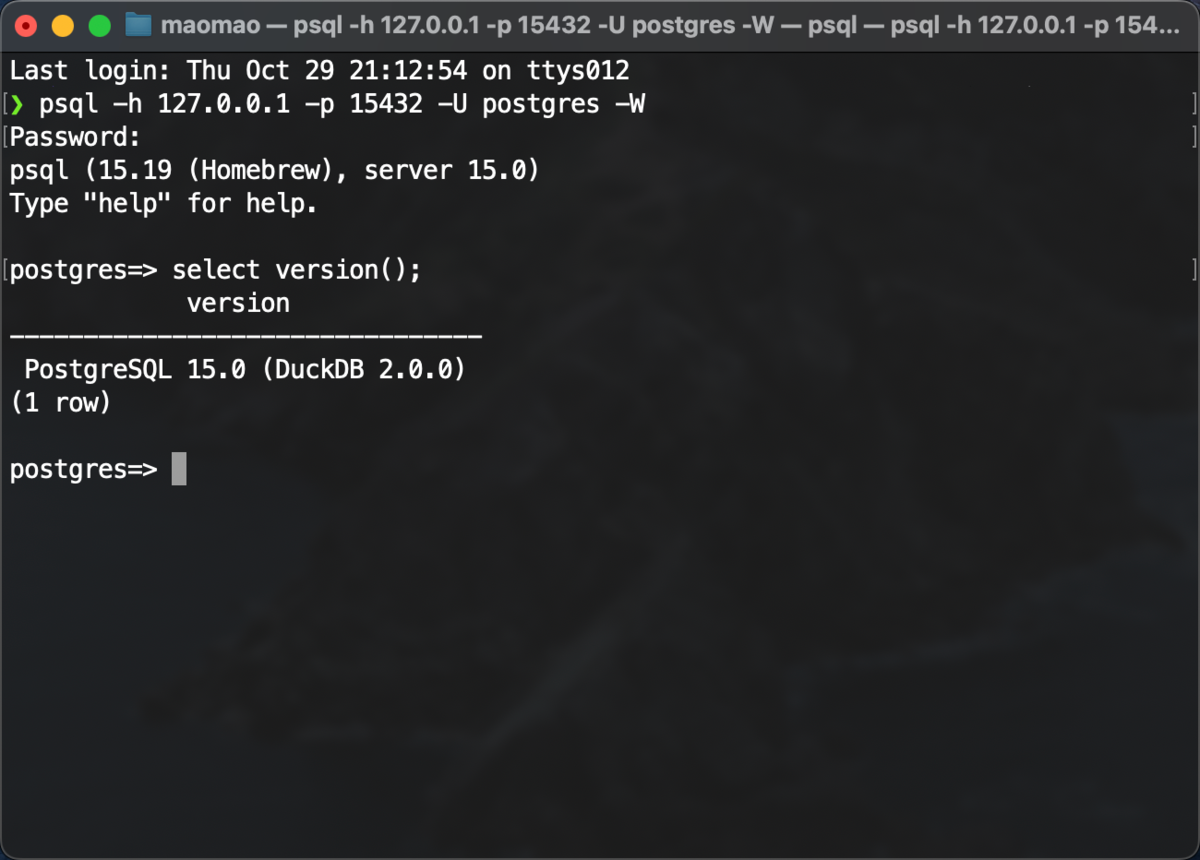
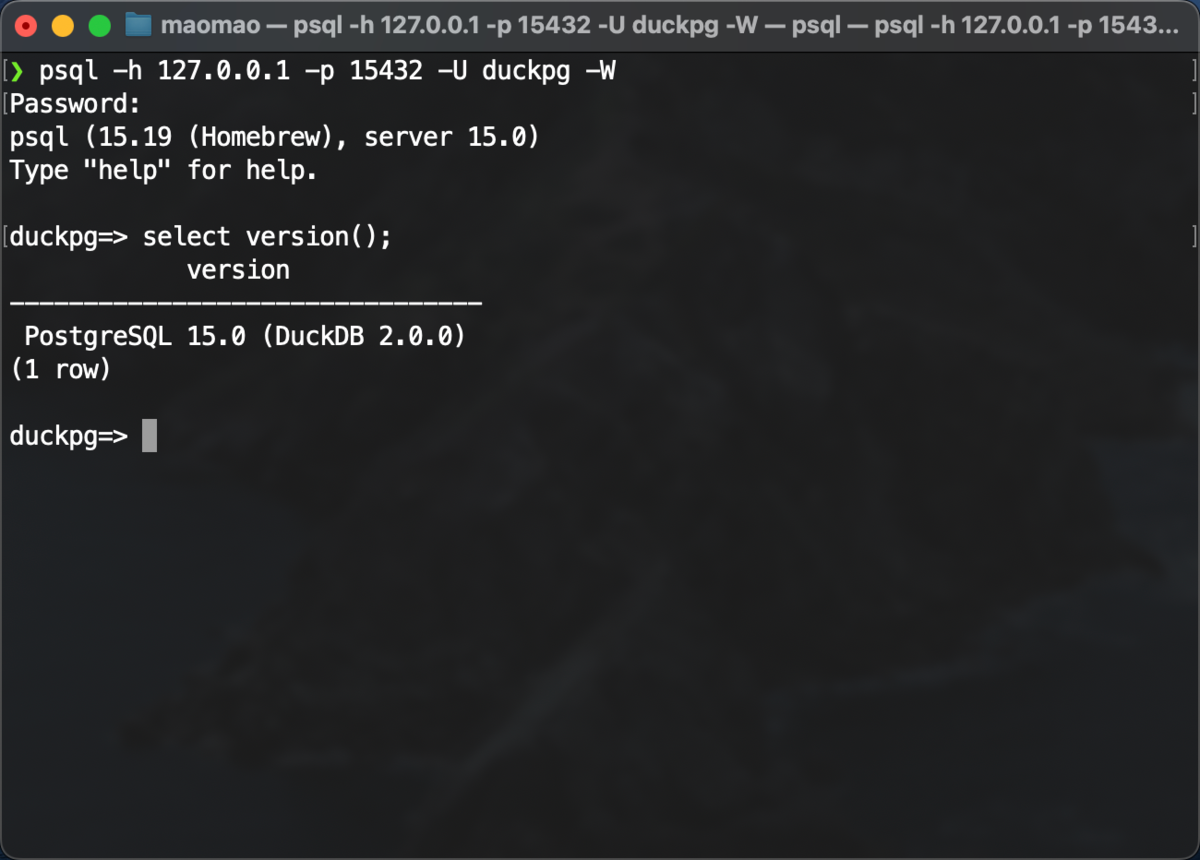
feat: advertise a configurable server version
Config.ServerVersion selects the PostgreSQL server_version parameter. An empty value stays 15.0, and version() appends the linked DuckDB library version.

diff --git a/duckpg/compat.go b/duckpg/compat.go
@@ -3,9 +3,10 @@ package duckpg
 import (
 	"regexp"
 	"strings"
-)
+	"sync"
 
-const pgVersionText = "PostgreSQL 15.0 (DuckDB 2.0.0)"
+	"github.com/duckdb/duckdb-go/v2/mapping"
+)
 
 // compatKind is how a whole client statement is handled before DuckDB sees it.
 type compatKind int
@@ -32,7 +33,7 @@ type compatClass struct {
 // startupSettings are the values advertised at connection startup, plus defaults
 // for PostgreSQL GUCs that DuckDB 2.0 does not implement.
 var startupSettings = map[string]string{
-	"server_version":              "15.0",
+	"server_version":              defaultServerVersion,
 	"server_encoding":             "UTF8",
 	"client_encoding":             "UTF8",
 	"datestyle":                   "ISO, MDY",
@@ -85,7 +86,7 @@ func classifyCompat(query string, s *session) compatClass {
 	if reVersion.MatchString(sql) {
 		return compatClass{
 			kind: compatRewrite,
-			sql:  "SELECT " + sqlStringLiteral(pgVersionText) + " AS version",
+			sql:  "SELECT " + sqlStringLiteral(versionText(s)) + " AS version",
 		}
 	}
 	if class, ok := classifyCurrentSetting(sql, s); ok {
@@ -201,6 +202,32 @@ func classifySetConfig(sql string) (compatClass, bool) {
 		sql:    "SELECT " + sqlStringLiteral(value) + " AS set_config",
 		effect: compatEffect{sets: map[string]string{name: value}},
 	}, true
+}
+
+var (
+	duckdbVersionOnce sync.Once
+	duckdbVersionText string
+)
+
+// duckdbVersion is the linked libduckdb version from mapping.LibraryVersion.
+// An empty library string becomes "unknown".
+func duckdbVersion() string {
+	duckdbVersionOnce.Do(func() {
+		duckdbVersionText = mapping.LibraryVersion()
+		if duckdbVersionText == "" {
+			duckdbVersionText = "unknown"
+		}
+	})
+	return duckdbVersionText
+}
+
+// versionText is the sentence returned by version().
+func versionText(s *session) string {
+	pg, ok := lookupSetting(s, "server_version")
+	if !ok || pg == "" {
+		pg = defaultServerVersion
+	}
+	return "PostgreSQL " + pg + " (DuckDB " + duckdbVersion() + ")"
 }
 
 func lookupSetting(s *session, name string) (string, bool) {

diff --git a/duckpg/server.go b/duckpg/server.go
@@ -6,8 +6,10 @@ import (
 	"database/sql"
 	"fmt"
 	"log"
+	"maps"
 	"net"
 	"os"
+	"strings"
 
 	_ "github.com/duckdb/duckdb-go/v2"
 	"github.com/jackc/pgx/v5/pgproto3"
@@ -16,14 +18,29 @@ import (
 var infoLog = log.New(os.Stdout, "[go-duckpg] ", log.Ldate|log.Ltime)
 var errorLog = log.New(os.Stderr, "[go-duckpg] ", log.Lshortfile)
 
+// defaultServerVersion is the PostgreSQL server_version used when Config.ServerVersion is empty.
+const defaultServerVersion = "15.0"
+
 // Config controls optional startup behavior.
 // A nil Users accepts every client. A non-nil Users requires the startup
 // user to be a key and the cleartext password to match that entry.
 // A nil TLS refuses SSLRequest with 'N'; a non-nil TLS completes the
 // handshake after SSLRequest.
+// An empty ServerVersion advertises PostgreSQL 15.0. version() appends the
+// linked DuckDB library version.
 type Config struct {
-	Users map[string]string
-	TLS   *tls.Config
+	Users         map[string]string
+	TLS           *tls.Config
+	ServerVersion string
+}
+
+// serverVersion is the PostgreSQL server_version for this configuration.
+// Whitespace-only values use the default.
+func (cfg Config) serverVersion() string {
+	if v := strings.TrimSpace(cfg.ServerVersion); v != "" {
+		return v
+	}
+	return defaultServerVersion
 }
 
 // Listen initializes the PostgreSQL wire server and listens for incoming connections.
@@ -32,9 +49,7 @@ type Config struct {
 func Listen(duckdb *sql.DB, address string, cfg Config) error {
 	if cfg.Users != nil {
 		users := make(map[string]string, len(cfg.Users))
-		for user, password := range cfg.Users {
-			users[user] = password
-		}
+		maps.Copy(users, cfg.Users)
 		cfg.Users = users
 	}
 
@@ -174,6 +189,7 @@ func (pg *pgWire) openSession(msg *pgproto3.StartupMessage) error {
 		return fmt.Errorf("create session: %w", err)
 	}
 	pg.session = sess
+	pg.session.settings["server_version"] = pg.cfg.serverVersion()
 	registerSession(sess)
 
 	user := ""

diff --git a/duckpg/server_test.go b/duckpg/server_test.go
@@ -105,7 +105,7 @@ func TestCompatStartup(t *testing.T) {
 	var version string
 	err = conn.QueryRow(ctx, `SELECT version()`).Scan(&version)
 	assert.NoError(t, err)
-	assert.Equal(t, "PostgreSQL 15.0 (DuckDB 2.0.0)", version)
+	assert.Equal(t, "PostgreSQL 15.0 (DuckDB "+duckdbVersion()+")", version)
 
 	var serverVersion string
 	err = conn.QueryRow(ctx, `SELECT current_setting('server_version')`).Scan(&serverVersion)
@@ -116,6 +116,26 @@ func TestCompatStartup(t *testing.T) {
 	err = conn.QueryRow(ctx, `SHOW transaction_isolation`).Scan(&isolation)
 	assert.NoError(t, err)
 	assert.Equal(t, "read committed", isolation)
+}
+
+func TestConfiguredServerVersion(t *testing.T) {
+	addr, cleanup := startConfiguredServer(t, Config{ServerVersion: "16.4"})
+	defer cleanup()
+
+	conn := connectPgx(t, addr, true)
+	ctx := context.Background()
+
+	assert.Equal(t, "16.4", conn.PgConn().ParameterStatus("server_version"))
+
+	var version string
+	err := conn.QueryRow(ctx, `SELECT version()`).Scan(&version)
+	assert.NoError(t, err)
+	assert.Equal(t, "PostgreSQL 16.4 (DuckDB "+duckdbVersion()+")", version)
+
+	var serverVersion string
+	err = conn.QueryRow(ctx, `SELECT current_setting('server_version')`).Scan(&serverVersion)
+	assert.NoError(t, err)
+	assert.Equal(t, "16.4", serverVersion)
 }
 
 func TestExtendedProtocol(t *testing.T) {

diff --git a/duckpg/compat_test.go b/duckpg/compat_test.go
@@ -60,7 +60,7 @@ func TestClassifyCompat(t *testing.T) {
 		}{
 			{
 				sql:  `SELECT pg_catalog.version()`,
-				want: `SELECT 'PostgreSQL 15.0 (DuckDB 2.0.0)' AS version`,
+				want: `SELECT ` + sqlStringLiteral("PostgreSQL 15.0 (DuckDB "+duckdbVersion()+")") + ` AS version`,
 			},
 			{
 				sql:  `SELECT current_setting('server_version')`,
@@ -89,6 +89,14 @@ func TestClassifyCompat(t *testing.T) {
 
 		setConfig := classifyCompat(`SELECT set_config('extra_float_digits', '3', false)`, s)
 		assert.Equal(t, "3", setConfig.effect.sets["extra_float_digits"])
+
+		custom := &session{settings: map[string]string{"server_version": "16.4"}}
+		class := classifyCompat(`SELECT version()`, custom)
+		assert.Equal(t, compatRewrite, class.kind)
+		assert.Equal(t, `SELECT `+sqlStringLiteral("PostgreSQL 16.4 (DuckDB "+duckdbVersion()+")")+` AS version`, class.sql)
+		setting := classifyCompat(`SELECT current_setting('server_version')`, custom)
+		assert.Equal(t, compatRewrite, setting.kind)
+		assert.Equal(t, `SELECT '16.4' AS current_setting`, setting.sql)
 	})
 }
 

diff --git a/examples/main.go b/examples/main.go
@@ -15,8 +15,9 @@ func main() {
 	checkError(err)
 
 	err = duckpg.Listen(db, ":15432", duckpg.Config{
-		Users: map[string]string{"duckpg": "123456"},
-		TLS:   nil,
+		Users:         map[string]string{"duckpg": "123456"},
+		TLS:           nil,
+		ServerVersion: "15.0",
 	})
 	checkError(err)
 }

diff --git a/duckpg/handler.go b/duckpg/handler.go
@@ -56,7 +56,7 @@ func (pg *pgWire) startupResponse() ([]byte, error) {
 	}
 
 	params := [][2]string{
-		{"server_version", "15.0"},
+		{"server_version", pg.cfg.serverVersion()},
 		{"server_encoding", "UTF8"},
 		{"client_encoding", "UTF8"},
 		{"DateStyle", "ISO, MDY"},

diff --git a/README.md b/README.md
@@ -9,22 +9,20 @@ README [English](README.md) | [中文](README_ZH.md)
 
 ## What is this
 
-go-duckpg is a Go-language library that implements the wire protocol of [PostgreSQL](https://www.postgresql.org/) for [DuckDB](https://duckdb.org/). PostgreSQL clients query a caller-supplied DuckDB database through that endpoint, and the library does not implement the PostgreSQL SQL dialect, system catalogs, or any authentication method other than a cleartext password.
+go-duckpg is a Go library that provides the wire protocol of [PostgreSQL](https://www.postgresql.org/) for a caller-supplied [DuckDB](https://duckdb.org/) database, and it does not implement the PostgreSQL SQL dialect, system catalogs, or any authentication method other than a cleartext password. The current library version is [v1.0.0-alpha.1](VERSION).
 
 ![usage.png](docs/usage.png)
-
-The library version is [v1.0.0-alpha.1](VERSION). On the wire, go-duckpg advertises `server_version` as `15.0` and rewrites `version()` to `PostgreSQL 15.0 (DuckDB 2.0.0)`.
 
 ## Features
 
 - **Simple Query**: executes one SQL string and returns rows or a command completion tag.
 - **Extended Query**: accepts Parse, Bind, Describe, Execute, Close, Sync, and Flush.
 - **Pooled session**: holds one DuckDB connection from the pool for the life of each socket.
-- **Cleartext auth**: checks the startup user and cleartext password when `Users` is set, and accepts every client when it is nil.
+- **Cleartext auth**: checks the startup user and password when `Users` is set, and accepts every client when it is nil.
 - **Optional TLS**: completes `SSLRequest` when `TLS` is set, answers `N` when it is nil, and declines `GSSEncRequest`.
 - **Query cancel**: interrupts the running statement when `CancelRequest` carries the matching secret.
-- **Session compat**: stores settings DuckDB 2.0 rejects, and rewrites `version()` to `PostgreSQL 15.0 (DuckDB 2.0.0)`.
-- **Type mapping**: advertises each DuckDB column as the nearest PostgreSQL type, in text or supported binary.
+- **Session compat**: stores settings DuckDB rejects, and rewrites `version()` before the client reads it.
+- **Type mapping**: advertises each DuckDB column as the nearest PostgreSQL type, in text or binary.
 
 ## Download and Install
 
@@ -51,31 +49,34 @@ import (
 
 func main() {
 	db, err := sql.Open("duckdb", "test.db")
-	if err != nil {
-		panic(err)
-	}
-	if err = db.Ping(); err != nil {
-		panic(err)
-	}
+	checkError(err)
+
+	err = db.Ping()
+	checkError(err)
 
 	err = duckpg.Listen(db, ":15432", duckpg.Config{
-		Users: map[string]string{"duckpg": "123456"},
-		TLS:   nil,
+		Users:         map[string]string{"duckpg": "123456"},
+		TLS:           nil,
+		ServerVersion: "15.0",
 	})
+	checkError(err)
+}
+
+func checkError(err error) {
 	if err != nil {
 		panic(err)
 	}
 }
 ```
 
-Point a PostgreSQL client at that address. The database name in the URL is ignored. The user name is ignored when `Users` is nil, and must match a key when `Users` is set.
+Point a PostgreSQL client at that address. The database name in the URL has no effect. A nil `Users` map also ignores the user name.
 
 ```bash
 psql "postgresql://duckpg:123456@127.0.0.1:15432/duckdb?sslmode=disable"
 ```
 
 > [!IMPORTANT]
-> `Listen` keeps accepting connections until the process exits, and returns when the listener can no longer accept one.
+> `Listen` returns when it can no longer accept a connection, and it keeps accepting until that failure.
 
 > [!NOTE]
 > The password in the example travels as clear text. Set `Config.TLS` before that port is reachable outside a trusted network, and keep `sslmode=disable` only while `TLS` is nil.
@@ -87,58 +88,58 @@ go-duckpg separates connection handling, session state, statement compatibility,
 ### Architecture
 
 - **Wire server**: accepts TCP sockets, finishes startup, and dispatches each frontend message.
-- **Client session**: keeps the DuckDB connection, prepared statements, bound portals, transaction status, and cancel key.
+- **Client session**: keeps the DuckDB connection, prepared statements, bound portals, transaction status, and the cancel key.
 - **Compatibility**: passes a statement through, answers it from session state, or rewrites it before execution.
 - **Type codec**: maps each DuckDB column to a PostgreSQL OID and encodes the value as text or binary.
 
 ### Core flow
 
-go-duckpg reads startup messages before any SQL. An `SSLRequest` becomes a TLS handshake when `Config.TLS` is set, and both an unconfigured `SSLRequest` and every `GSSEncRequest` receive the byte `N`. A `CancelRequest` stays out of the query loop and cancels the query on the session whose process ID and secret match.
+go-duckpg reads startup messages before any SQL. An `SSLRequest` becomes a TLS handshake when `Config.TLS` is set, and both an unconfigured `SSLRequest` and every `GSSEncRequest` receive the byte `N`. A `CancelRequest` stays outside the query loop and cancels the query on the session whose process ID and secret match.
 
-A nil `Config.Users` skips authentication. A non-nil `Config.Users` causes go-duckpg to request `AuthenticationCleartextPassword` and accept the connection only when the startup user is a key and the reply matches that password. go-duckpg then sends `AuthenticationOk`, the fixed parameter statuses, `BackendKeyData`, and `ReadyForQuery`.
+A nil `Config.Users` skips authentication. A non-nil `Config.Users` requests a cleartext password and accepts the connection only when the startup user is a key and the reply matches that entry. go-duckpg then sends `AuthenticationOk`, the parameter statuses, `BackendKeyData`, and `ReadyForQuery`.
 
-A simple `Query` and an extended Parse, Bind, Describe, Execute, and Sync sequence share one classification step. A statement that only changes a stored PostgreSQL setting completes locally. A rewritten statement, including `version()`, and every remaining statement run on that session's DuckDB connection. The reply closes with `CommandComplete` and `ReadyForQuery`. After an error in the extended protocol, go-duckpg discards messages until `Sync`, while `Terminate` still closes the session.
+A simple `Query` and an extended Parse, Bind, Describe, Execute, and Sync sequence share one classification step. A statement that only changes a stored PostgreSQL setting completes locally. A rewritten statement and every remaining statement run on that session's DuckDB connection. The reply closes with `CommandComplete` and `ReadyForQuery`. After an error in the extended protocol, go-duckpg discards messages until `Sync`, while `Terminate` still closes the session.
 
 ```mermaid
 flowchart TD
-    accept[Accept TCP] --> readMsg[Read startup message]
-    readMsg --> kind{Message kind}
-    kind -->|SSLRequest with TLS| handshake[Complete TLS handshake]
-    kind -->|SSLRequest without TLS| replyN[Reply N]
-    kind -->|GSSEncRequest| replyN
-    handshake --> readMsg
-    replyN --> readMsg
+    accept[Accept a TCP socket] --> startup[Read a startup message]
+    startup --> kind{Which message}
+    kind -->|SSLRequest and TLS is set| tls[Finish the TLS handshake]
+    kind -->|SSLRequest and TLS is nil| decline[Send N]
+    kind -->|GSSEncRequest| decline
+    tls --> startup
+    decline --> startup
     kind -->|CancelRequest| cancel[Cancel the matching query]
-    kind -->|StartupMessage| auth{Users set}
-    auth -->|Yes| password[Check user and cleartext password]
-    auth -->|No| ready[AuthenticationOk and ReadyForQuery]
+    kind -->|StartupMessage| users{Users is set}
+    users -->|Yes| password[Match the user and cleartext password]
+    users -->|No| ready[Send AuthenticationOk and ReadyForQuery]
     password --> ready
-    ready --> query[Simple Query or extended query]
-    query --> classify{Compatibility class}
-    classify -->|Local setting| done[CommandComplete and ReadyForQuery]
-    classify -->|Rewrite or pass through| exec[Run SQL on the session connection]
-    exec --> done
-    done --> query
+    ready --> query[Receive a simple or extended query]
+    query --> class{How the statement is classed}
+    class -->|Stored setting| complete[Send CommandComplete and ReadyForQuery]
+    class -->|Rewrite or pass through| duckdb[Execute on the session connection]
+    duckdb --> complete
+    complete --> query
 ```
 
 ## FAQ
 
-### Why does version() report PostgreSQL 15.0?
+### Why does a PostgreSQL catalog or dialect query fail?
 
-PostgreSQL clients expect a PostgreSQL version string, which DuckDB does not return. go-duckpg rewrites `SELECT version()` to `PostgreSQL 15.0 (DuckDB 2.0.0)`, while the library version remains the contents of [VERSION](VERSION).
+DuckDB receives the statement, and go-duckpg does not implement `pg_catalog` or the PostgreSQL SQL dialect.
 
-### Why does a connection succeed with any user name?
+### Why is the database name in the URL ignored?
 
-go-duckpg ignores the startup user when `Users` is nil. Set `Users` so the user name must be a key and the cleartext password must match that entry.
+The startup message supplies the user name, and go-duckpg does not read the database name. Any database name is valid, and `Users` decides which clients may connect.
 
-### Why does SET extra_float_digits succeed?
+### Why do SCRAM and MD5 fail?
 
-DuckDB 2.0 rejects several PostgreSQL parameters that clients send at connect time. go-duckpg stores `extra_float_digits`, `application_name`, `client_encoding`, `standard_conforming_strings`, `DateStyle`, `TimeZone`, `IntervalStyle`, and `bytea_output` on the session, and forwards every other setting, such as `search_path`, to DuckDB.
+go-duckpg requests a cleartext password when `Users` is set, and it skips authentication when `Users` is nil. The client accepts a cleartext password, and `Config.TLS` is set before the port is reachable outside a trusted network.
 
 ## Changelog
 
-[CHANGELOG.md](CHANGELOG.md)
+Notable changes are listed in [CHANGELOG.md](CHANGELOG.md).
 
 ## License
 
-[MIT License](LICENSE)
+go-duckpg is released under the [MIT License](LICENSE).

diff --git a/CHANGELOG.md b/CHANGELOG.md
@@ -7,19 +7,24 @@ and this project adheres to [Semantic Versioning](https://semver.org/spec/v2.0.0
 
 ## [Unreleased]
 
+### Added
+
+- `Config.ServerVersion` selects the PostgreSQL version advertised as `server_version`. An empty value uses `15.0`.
+- `version()` appends the version of the linked DuckDB library.
+
 ## [1.0.0-alpha.1] - 2026-11-02
 
 ### Added
 
-- PostgreSQL wire service for a caller-supplied DuckDB database, through `Startup` and `Listen`.
-- Simple Query, which executes one SQL string and returns rows or a command completion tag.
-- Extended query, which accepts Parse, Bind, Describe, Execute, Close, Sync, and Flush.
-- One DuckDB session per connection, kept across SQL errors and transactions.
-- PostgreSQL type advertisement for each DuckDB column, in text or supported binary.
-- Cleartext password authentication when a password is set, and acceptance of every client when it is empty.
-- TLS handshake for `SSLRequest` when `TLS` is set, the byte `N` when it is nil, and refusal of `GSSEncRequest`.
-- Query cancellation when `CancelRequest` carries the matching process ID and secret.
-- Session storage for PostgreSQL settings that DuckDB 2.0 rejects, and a rewrite of `version()` to `PostgreSQL 15.0 (DuckDB 2.0.0)`.
+- `Listen` serves the PostgreSQL wire protocol for a caller-supplied DuckDB database.
+- Simple Query executes one SQL string and returns rows or a command completion tag.
+- Extended query accepts Parse, Bind, Describe, Execute, Close, Sync, and Flush.
+- Each socket keeps one DuckDB session across later statements, errors, and transactions.
+- Each DuckDB column is advertised as the nearest PostgreSQL type, in text or binary.
+- A nil `Users` map accepts every client. A non-nil map requires the startup user to be a key and the cleartext password to match that entry.
+- `TLS` completes `SSLRequest` when it is set. A nil `TLS` answers `N`, and every `GSSEncRequest` is declined.
+- `CancelRequest` interrupts the query whose process ID and secret match.
+- The session stores PostgreSQL settings that DuckDB rejects, and `version()` is rewritten for PostgreSQL clients.
 
 [Unreleased]: https://github.com/fantasticmao/go-duckpg/compare/v1.0.0-alpha.1...HEAD
 [1.0.0-alpha.1]: https://github.com/fantasticmao/go-duckpg/releases/tag/v1.0.0-alpha.1
